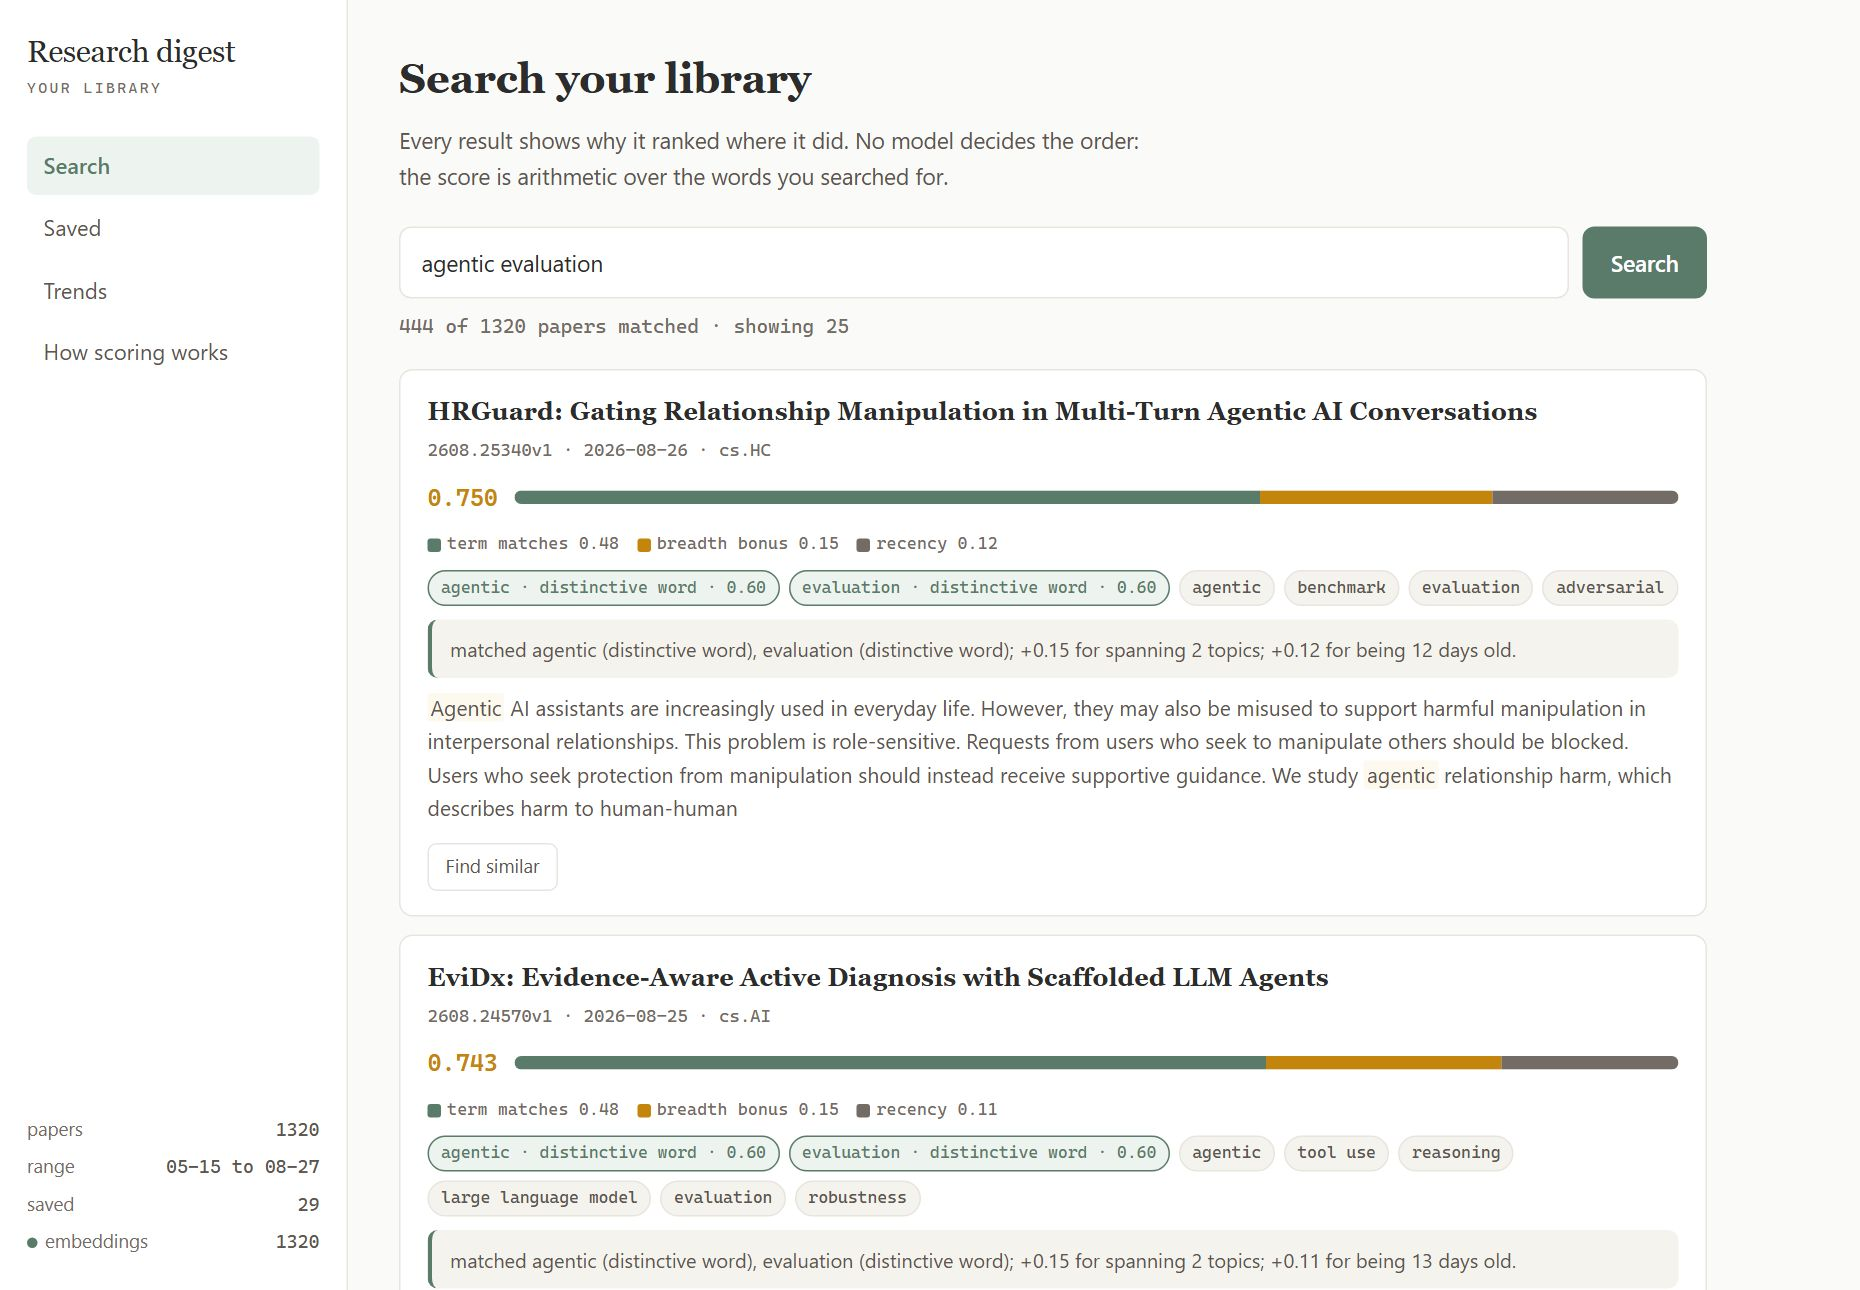
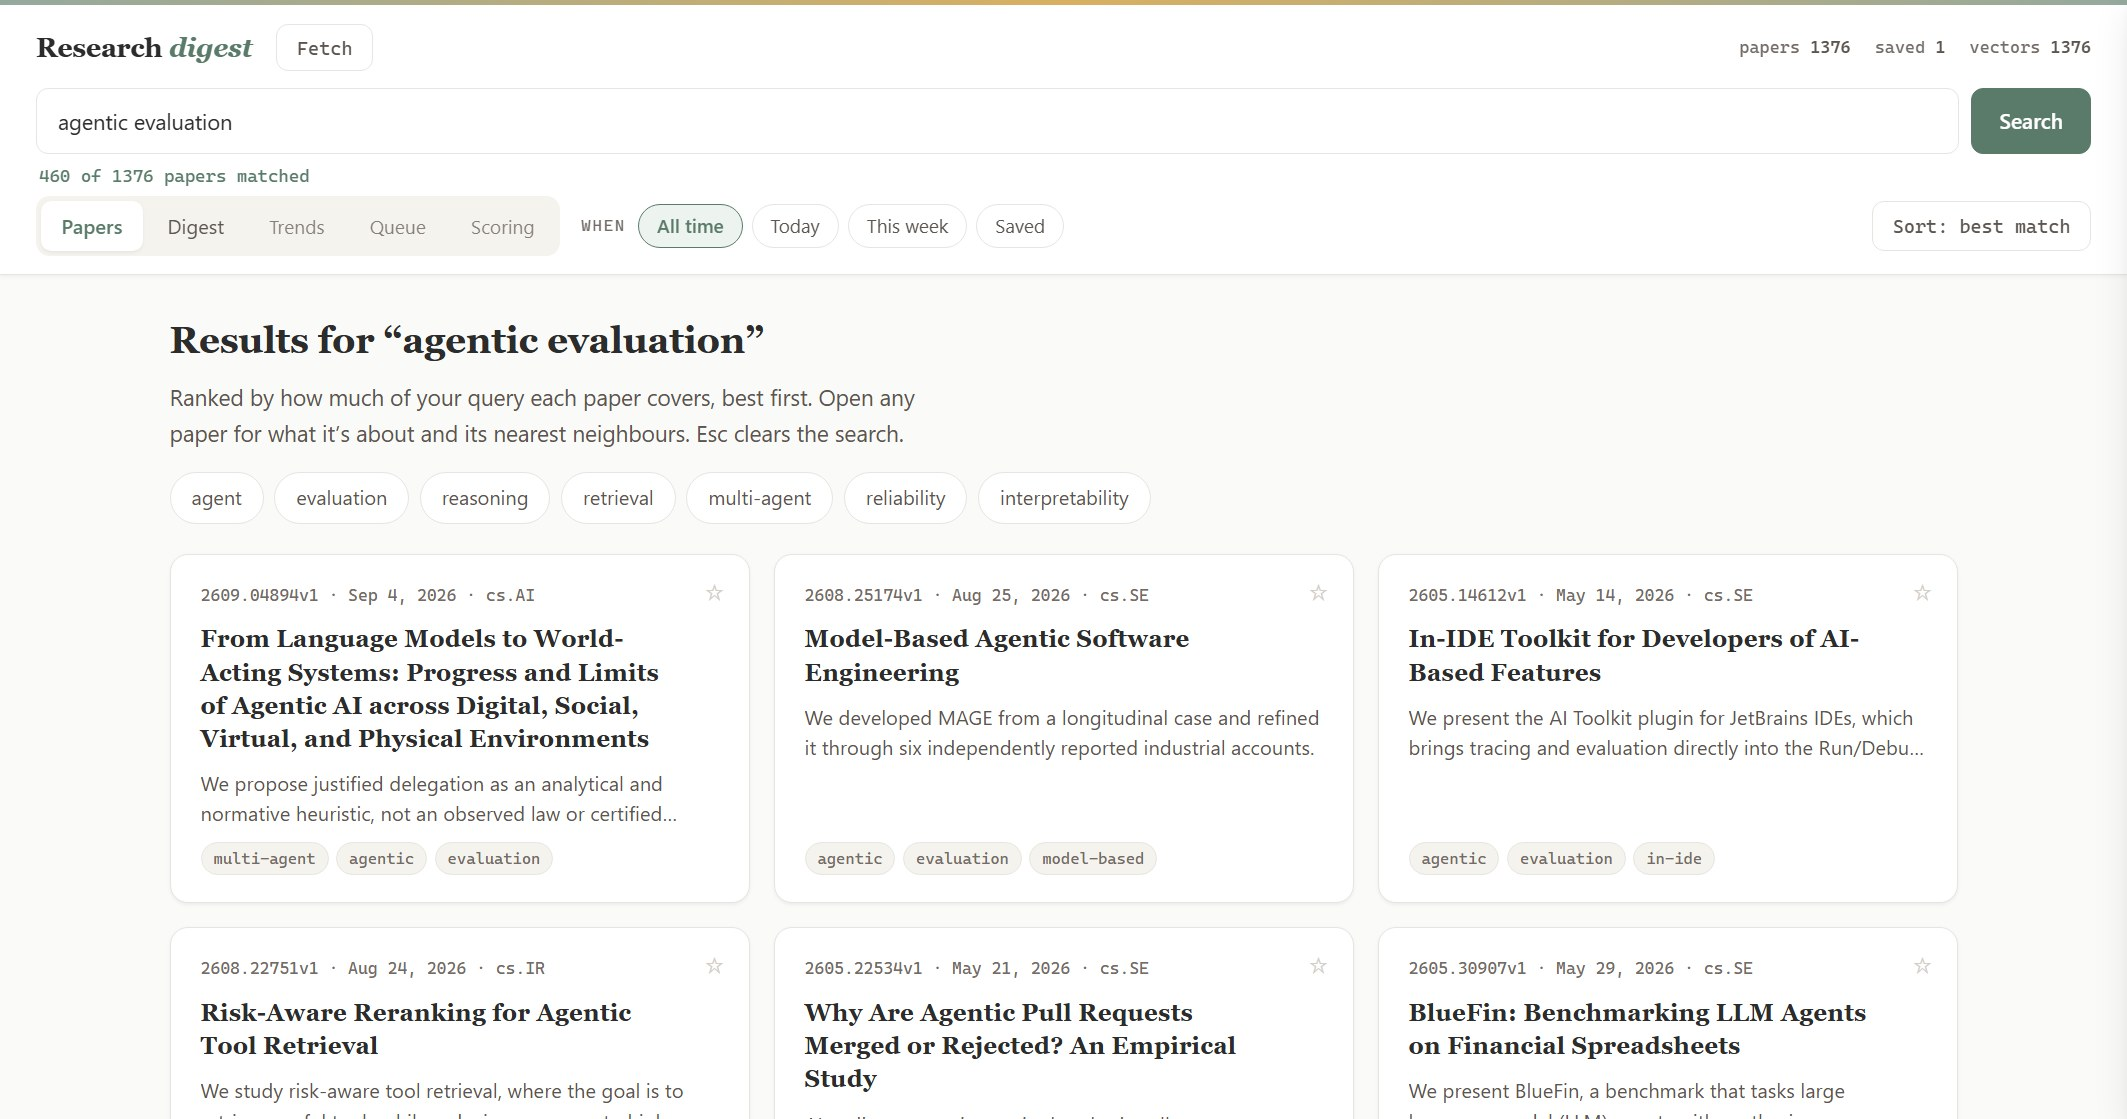
Update the Research Digest case study to the numbers that now run in CI
The regression track measured 0.708 against a phrase set mined from the live
library at run time, so the query set moved whenever the library did. It is
pinned now, against a frozen corpus, and reads 0.769 / recency 0.031.

The 0.708 in the shipped-regression story stays, because that episode is a
like-for-like comparison on the ruler in use at the time; the text now says so
rather than leaving a reader to wonder why two numbers disagree.

Fresh screenshots, and 1,376 papers becomes 1,373 after three arXiv version
duplicates were collapsed into single records.

Claude-Session: https://claude.ai/code/session_01GouMHycYUG1PynrA2ityyU

diff --git a/work/research-digest/index.html b/work/research-digest/index.html
@@ -267,24 +267,24 @@ tool use (phrase); +0.30 for spanning 3 topics; +0.18 for being
 
       <figure class="table-figure">
         <table>
-          <thead><tr><th>Ranker</th><th>26 mined phrases<br />precision@5</th><th>8 judged queries<br />precision@5</th></tr></thead>
+          <thead><tr><th>Ranker</th><th>26 pinned phrases<br />precision@5</th><th>8 judged queries<br />precision@5</th></tr></thead>
           <tbody>
-            <tr><td><b>This ranker</b></td><td><b>0.708</b></td><td><b>0.80</b></td></tr>
-            <tr><td>Sort by date</td><td>0.008</td><td>0.23</td></tr>
+            <tr><td><b>This ranker</b></td><td><b>0.769</b></td><td><b>0.80</b></td></tr>
+            <tr><td>Sort by date</td><td>0.031</td><td>0.23</td></tr>
             <tr><td>Random</td><td>0.000</td><td>0.12</td></tr>
           </tbody>
         </table>
-        <figcaption>Better than the two baselines anyone would actually reach for. That is the whole of what these numbers establish.</figcaption>
+        <figcaption>Better than the two baselines anyone would actually reach for. That is the whole of what these numbers establish. The left column runs in CI on every push, against a frozen corpus committed to the repository.</figcaption>
       </figure>
 
       <div class="card lead">
         <p><strong>The measurement caught a regression I had already shipped.</strong> The judged eval found one query, <code>chain of thought faithfulness</code>, scoring zero &mdash; because &ldquo;of&rdquo; was not on the list of words that count for less, so it scored as a <em>distinctive</em> word and matched nearly every paper. I added a stopword list and shipped it.</p>
-        <p>Nobody checked it against the other eval. It cost <strong>0.708 &rarr; 0.531</strong>. Filtering ran before the exact-phrase bonus was assembled, so &ldquo;chain of thought&rdquo; became the phrase &ldquo;chain thought&rdquo;, which appears in no paper, and every query with a function word inside it silently lost the bonus. All 11 affected phrases fell; none of the other 15 moved. Building the phrase from the raw query restores 0.708 with the stopword fix kept.</p>
+        <p>Nobody checked it against the other eval. It cost <strong>0.708 &rarr; 0.531</strong> &mdash; those two figures are on the phrase set in use at the time, which is why they sit below the 0.769 above. Filtering ran before the exact-phrase bonus was assembled, so &ldquo;chain of thought&rdquo; became the phrase &ldquo;chain thought&rdquo;, which appears in no paper, and every query with a function word inside it silently lost the bonus. All 11 affected phrases fell; none of the other 15 moved. Building the phrase from the raw query restores 0.708 with the stopword fix kept.</p>
       </div>
 
       <p>A fix motivated by one eval and never checked against the other is a coin flip, and this one landed wrong, in a build with a green test suite &mdash; because the tests encoded the bug that motivated the fix, and nothing encoded its cost.</p>
 
-      <p>The most useful result is the query that still scores zero. Of 1,376 papers, ten mention chain-of-thought and eighteen mention faithfulness; <b>zero mention both</b>. The one paper the judge rated relevant across the entire pool shares not a single word with the query &mdash; not &ldquo;chain&rdquo;, not &ldquo;thought&rdquo;, not &ldquo;faithful&rdquo;. A string matcher cannot reach it, which is exactly the failure this approach is supposed to have. Worth adding: the embedding store already built over this library does not reach it either, so &ldquo;just use embeddings&rdquo; is a hypothesis here, not an answer.</p>
+      <p>The most useful result is the query that still scores zero. Of 1,373 papers, ten mention chain-of-thought and eighteen mention faithfulness; <b>zero mention both</b>. The one paper the judge rated relevant across the entire pool shares not a single word with the query &mdash; not &ldquo;chain&rdquo;, not &ldquo;thought&rdquo;, not &ldquo;faithful&rdquo;. A string matcher cannot reach it, which is exactly the failure this approach is supposed to have. Worth adding: the embedding store already built over this library does not reach it either, so &ldquo;just use embeddings&rdquo; is a hypothesis here, not an answer.</p>
 
       <p>What none of this proves, stated plainly because it is the first thing I would ask: exact-phrase ground truth rewards a string matcher by construction, eight queries is not a benchmark, the judged numbers are one model&rsquo;s opinion rendered once, and there is no held-out set &mdash; every figure above comes from the data that motivated the fixes. The <a href="https://github.com/dneish2/research-digest-mcp/blob/main/docs/EVAL.md" rel="noopener">full write-up</a> leads with that list, and ships the harness and all 115 judgments so the numbers are checkable rather than quotable.</p>
 
